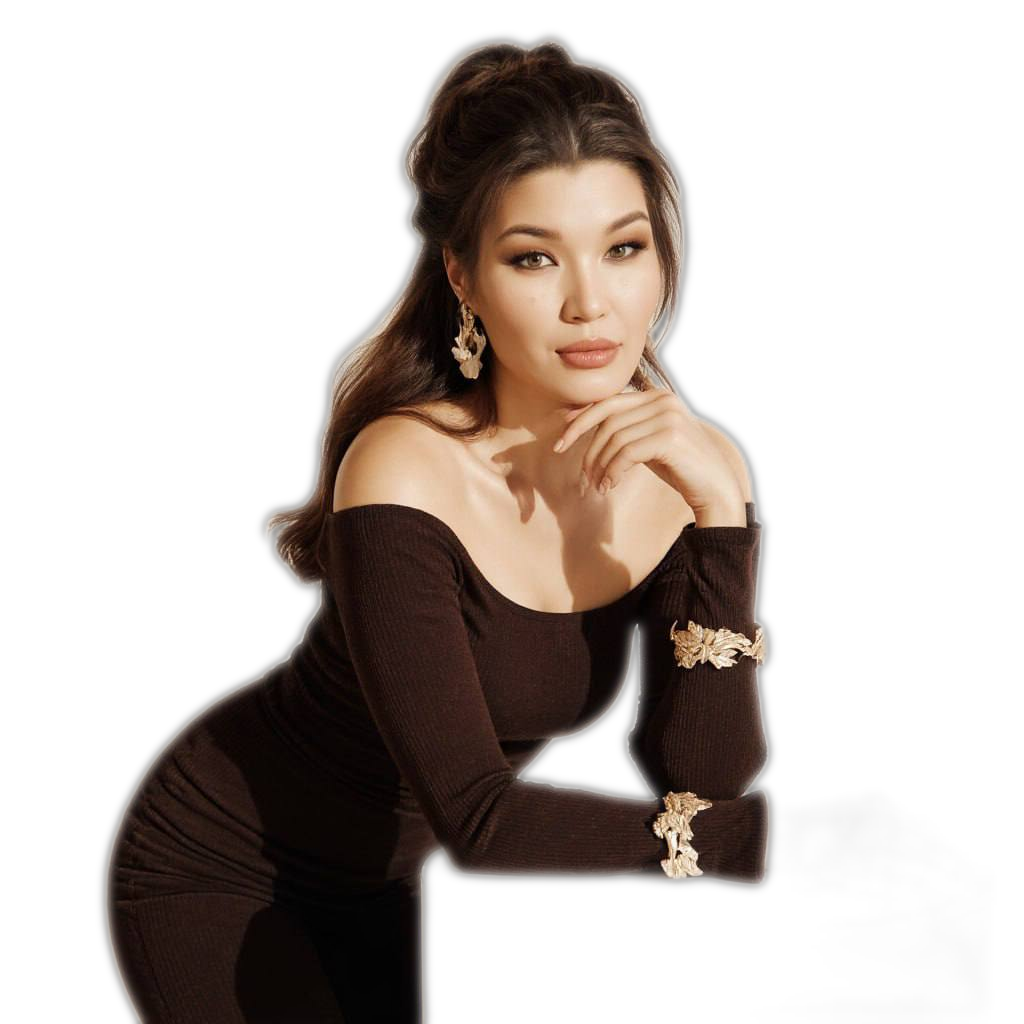
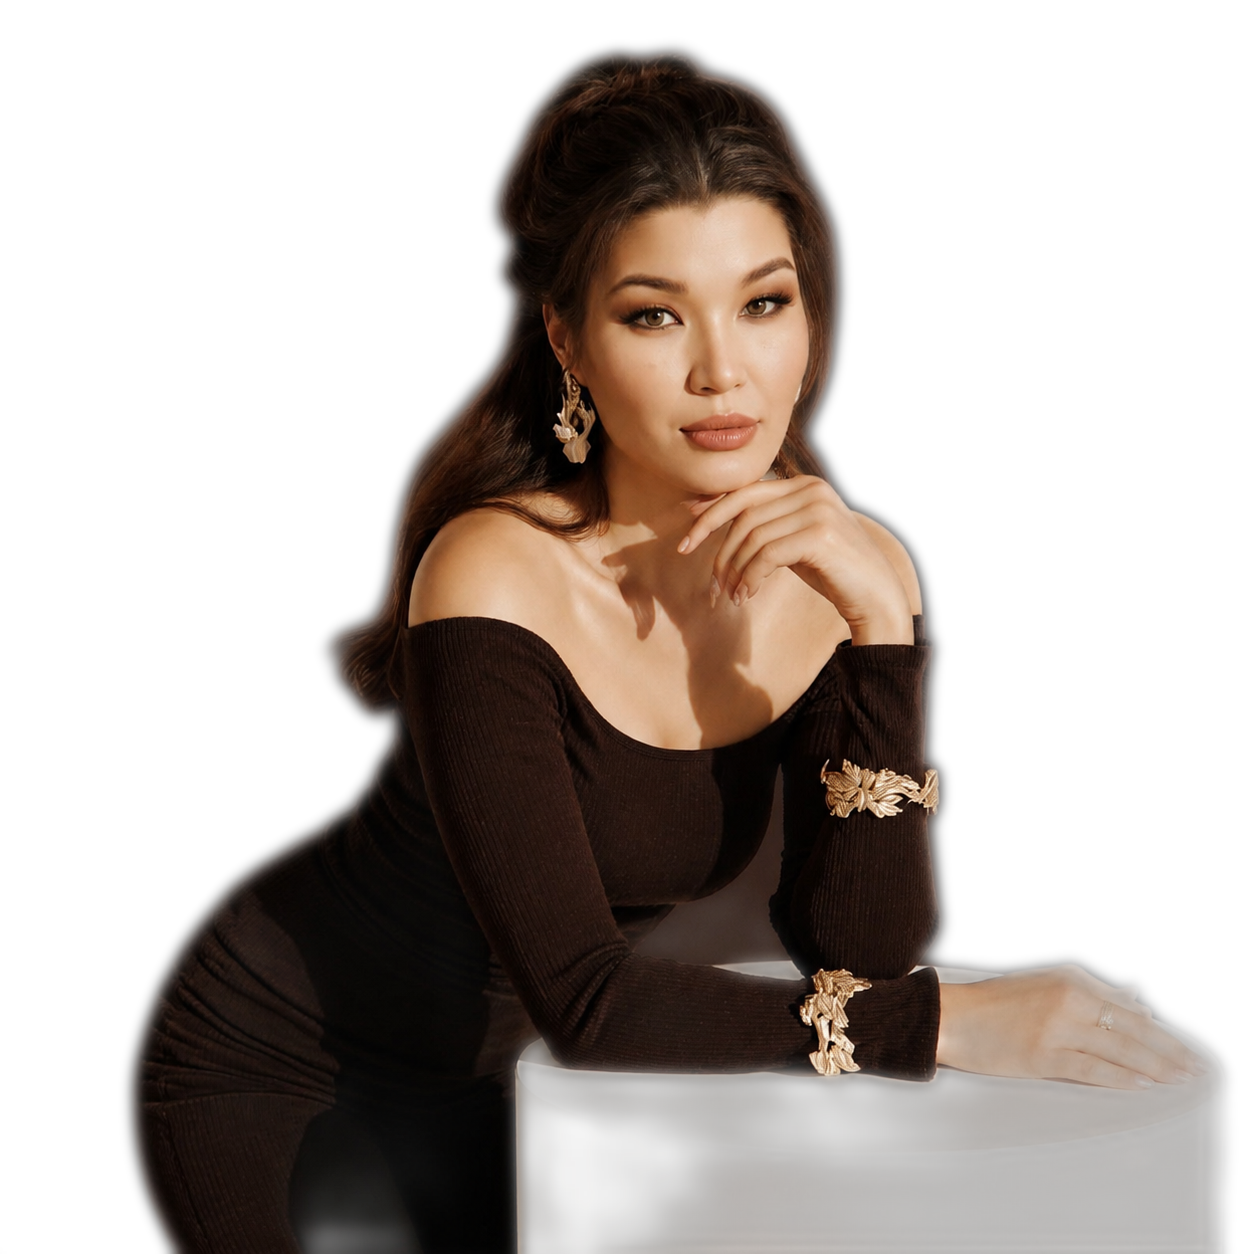
фот

diff --git a/css/styles.css b/css/styles.css
@@ -1552,16 +1552,17 @@ img {
 
 .curator__photo-inner {
   --curator-feather-mask: radial-gradient(
-    ellipse 112% 108% at 50% 46%,
+    ellipse 118% 114% at 50% 42%,
     #000 0%,
-    #000 54%,
-    rgba(0, 0, 0, 0.98) 60%,
-    rgba(0, 0, 0, 0.94) 66%,
-    rgba(0, 0, 0, 0.86) 72%,
-    rgba(0, 0, 0, 0.72) 78%,
-    rgba(0, 0, 0, 0.52) 84%,
-    rgba(0, 0, 0, 0.3) 90%,
-    rgba(0, 0, 0, 0.12) 96%,
+    #000 50%,
+    rgba(0, 0, 0, 0.99) 56%,
+    rgba(0, 0, 0, 0.96) 62%,
+    rgba(0, 0, 0, 0.9) 68%,
+    rgba(0, 0, 0, 0.78) 74%,
+    rgba(0, 0, 0, 0.6) 80%,
+    rgba(0, 0, 0, 0.4) 86%,
+    rgba(0, 0, 0, 0.22) 92%,
+    rgba(0, 0, 0, 0.08) 97%,
     transparent 100%
   );
   position: relative;
@@ -1593,23 +1594,25 @@ img {
   z-index: 1;
   background: var(--bg);
   -webkit-mask-image: radial-gradient(
-    ellipse 112% 108% at 50% 46%,
+    ellipse 118% 114% at 50% 42%,
     transparent 0%,
-    transparent 58%,
-    rgba(0, 0, 0, 0.18) 68%,
-    rgba(0, 0, 0, 0.42) 76%,
-    rgba(0, 0, 0, 0.68) 84%,
-    rgba(0, 0, 0, 0.88) 92%,
+    transparent 54%,
+    rgba(0, 0, 0, 0.12) 64%,
+    rgba(0, 0, 0, 0.32) 72%,
+    rgba(0, 0, 0, 0.55) 80%,
+    rgba(0, 0, 0, 0.78) 88%,
+    rgba(0, 0, 0, 0.92) 95%,
     #000 100%
   );
   mask-image: radial-gradient(
-    ellipse 112% 108% at 50% 46%,
+    ellipse 118% 114% at 50% 42%,
     transparent 0%,
-    transparent 58%,
-    rgba(0, 0, 0, 0.18) 68%,
-    rgba(0, 0, 0, 0.42) 76%,
-    rgba(0, 0, 0, 0.68) 84%,
-    rgba(0, 0, 0, 0.88) 92%,
+    transparent 54%,
+    rgba(0, 0, 0, 0.12) 64%,
+    rgba(0, 0, 0, 0.32) 72%,
+    rgba(0, 0, 0, 0.55) 80%,
+    rgba(0, 0, 0, 0.78) 88%,
+    rgba(0, 0, 0, 0.92) 95%,
     #000 100%
   );
   -webkit-mask-repeat: no-repeat;
@@ -1624,8 +1627,8 @@ img {
   height: auto;
   max-height: min(82vh, 600px);
   object-fit: contain;
-  object-position: center bottom;
-  filter: saturate(1.04) contrast(1.05) brightness(1.08);
+  object-position: 50% 12%;
+  filter: saturate(1.03) contrast(1.04);
 }
 
 @media (min-width: 701px) {
@@ -1652,46 +1655,49 @@ img {
 
   .curator__photo-inner {
     --curator-feather-mask: radial-gradient(
-      ellipse 114% 110% at 50% 46%,
+      ellipse 120% 116% at 50% 42%,
       #000 0%,
-      #000 52%,
-      rgba(0, 0, 0, 0.98) 58%,
-      rgba(0, 0, 0, 0.93) 64%,
-      rgba(0, 0, 0, 0.84) 70%,
-      rgba(0, 0, 0, 0.68) 76%,
-      rgba(0, 0, 0, 0.48) 82%,
-      rgba(0, 0, 0, 0.28) 88%,
-      rgba(0, 0, 0, 0.1) 94%,
+      #000 48%,
+      rgba(0, 0, 0, 0.99) 54%,
+      rgba(0, 0, 0, 0.95) 60%,
+      rgba(0, 0, 0, 0.88) 66%,
+      rgba(0, 0, 0, 0.74) 72%,
+      rgba(0, 0, 0, 0.56) 78%,
+      rgba(0, 0, 0, 0.36) 84%,
+      rgba(0, 0, 0, 0.18) 90%,
+      rgba(0, 0, 0, 0.06) 96%,
       transparent 100%
     );
   }
 
   .curator__photo-inner::after {
     -webkit-mask-image: radial-gradient(
-      ellipse 114% 110% at 50% 46%,
+      ellipse 120% 116% at 50% 42%,
       transparent 0%,
-      transparent 56%,
-      rgba(0, 0, 0, 0.2) 66%,
-      rgba(0, 0, 0, 0.45) 74%,
-      rgba(0, 0, 0, 0.7) 82%,
-      rgba(0, 0, 0, 0.9) 90%,
+      transparent 52%,
+      rgba(0, 0, 0, 0.14) 62%,
+      rgba(0, 0, 0, 0.34) 70%,
+      rgba(0, 0, 0, 0.58) 78%,
+      rgba(0, 0, 0, 0.8) 86%,
+      rgba(0, 0, 0, 0.94) 94%,
       #000 100%
     );
     mask-image: radial-gradient(
-      ellipse 114% 110% at 50% 46%,
+      ellipse 120% 116% at 50% 42%,
       transparent 0%,
-      transparent 56%,
-      rgba(0, 0, 0, 0.2) 66%,
-      rgba(0, 0, 0, 0.45) 74%,
-      rgba(0, 0, 0, 0.7) 82%,
-      rgba(0, 0, 0, 0.9) 90%,
+      transparent 52%,
+      rgba(0, 0, 0, 0.14) 62%,
+      rgba(0, 0, 0, 0.34) 70%,
+      rgba(0, 0, 0, 0.58) 78%,
+      rgba(0, 0, 0, 0.8) 86%,
+      rgba(0, 0, 0, 0.94) 94%,
       #000 100%
     );
   }
 
   .curator__photo-img {
     max-height: min(70vh, 520px);
-    object-position: center bottom;
+    object-position: 50% 14%;
   }
 }
 

diff --git a/index.html b/index.html
@@ -378,8 +378,8 @@
               class="curator__photo-img"
               src="assets/curator-anastasia.png"
               alt="Анастасия — куратор платформы"
-              width="1024"
-              height="1024"
+              width="1254"
+              height="1254"
               loading="lazy"
               decoding="async"
             >
